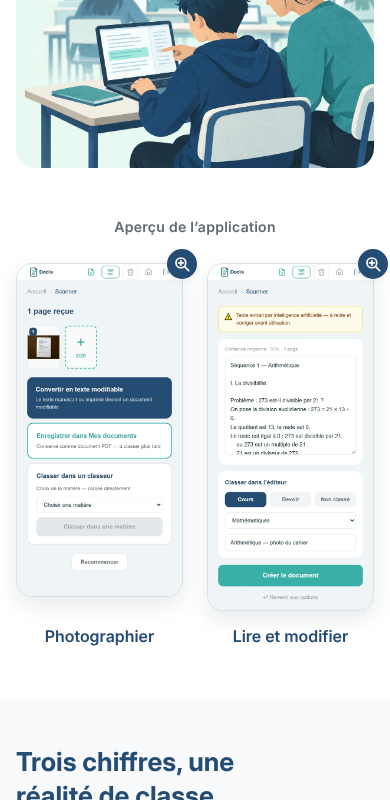
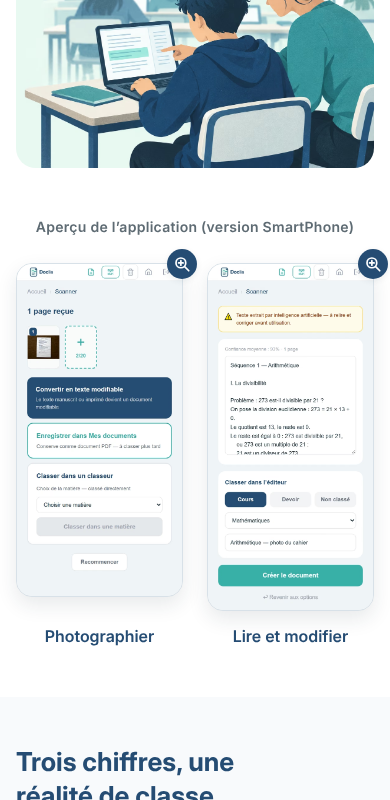
DEV-Site: surtitre de la bande d’aperçu : « Aperçu de l’application (version SmartPhone) » (consigne directe du CEO, 23/10 03:01)
Claude-Session: https://claude.ai/code/session_01RpKnjWoS5fRHWa3MWZjy1P

Changed region(s): [[0.0923, 0.25, 0.8923, 0.3125]]

diff --git a/index.html b/index.html
@@ -88,8 +88,8 @@
   <!-- Écrans de téléphone réels (CTO-Debug10 20/10, 390 × 844 ×2, monde démo, non retouchés, verdicts CMO 01:18 et 01:28). Deux écrans, définitivement (pas de vue des classeurs sur téléphone, textes V1.33) ; centrés ; jamais de cadre vide. -->
   <div class="apercu">
     <div class="container">
-      <!-- Texte 4 — Preuves visuelles : bande sous le héros, surtitre (« — données fictives » retiré, consigne directe du CEO du 23/10 02:58) -->
-      <p class="apercu__surtitre">Aperçu de l’application</p>
+      <!-- Texte 4 — Preuves visuelles : bande sous le héros, surtitre (« — données fictives » retiré, consigne directe du CEO du 23/10 02:58 ; « (version SmartPhone) » ajouté, consigne directe du CEO du 23/10 03:01) -->
+      <p class="apercu__surtitre">Aperçu de l’application (version SmartPhone)</p>
       <ul class="apercu__ecrans">
           <li class="apercu__ecran">
             <!-- Texte 4 — Preuves visuelles : bande sous le héros, écran « Photographier » (légende et alt, textes V1.30) -->
